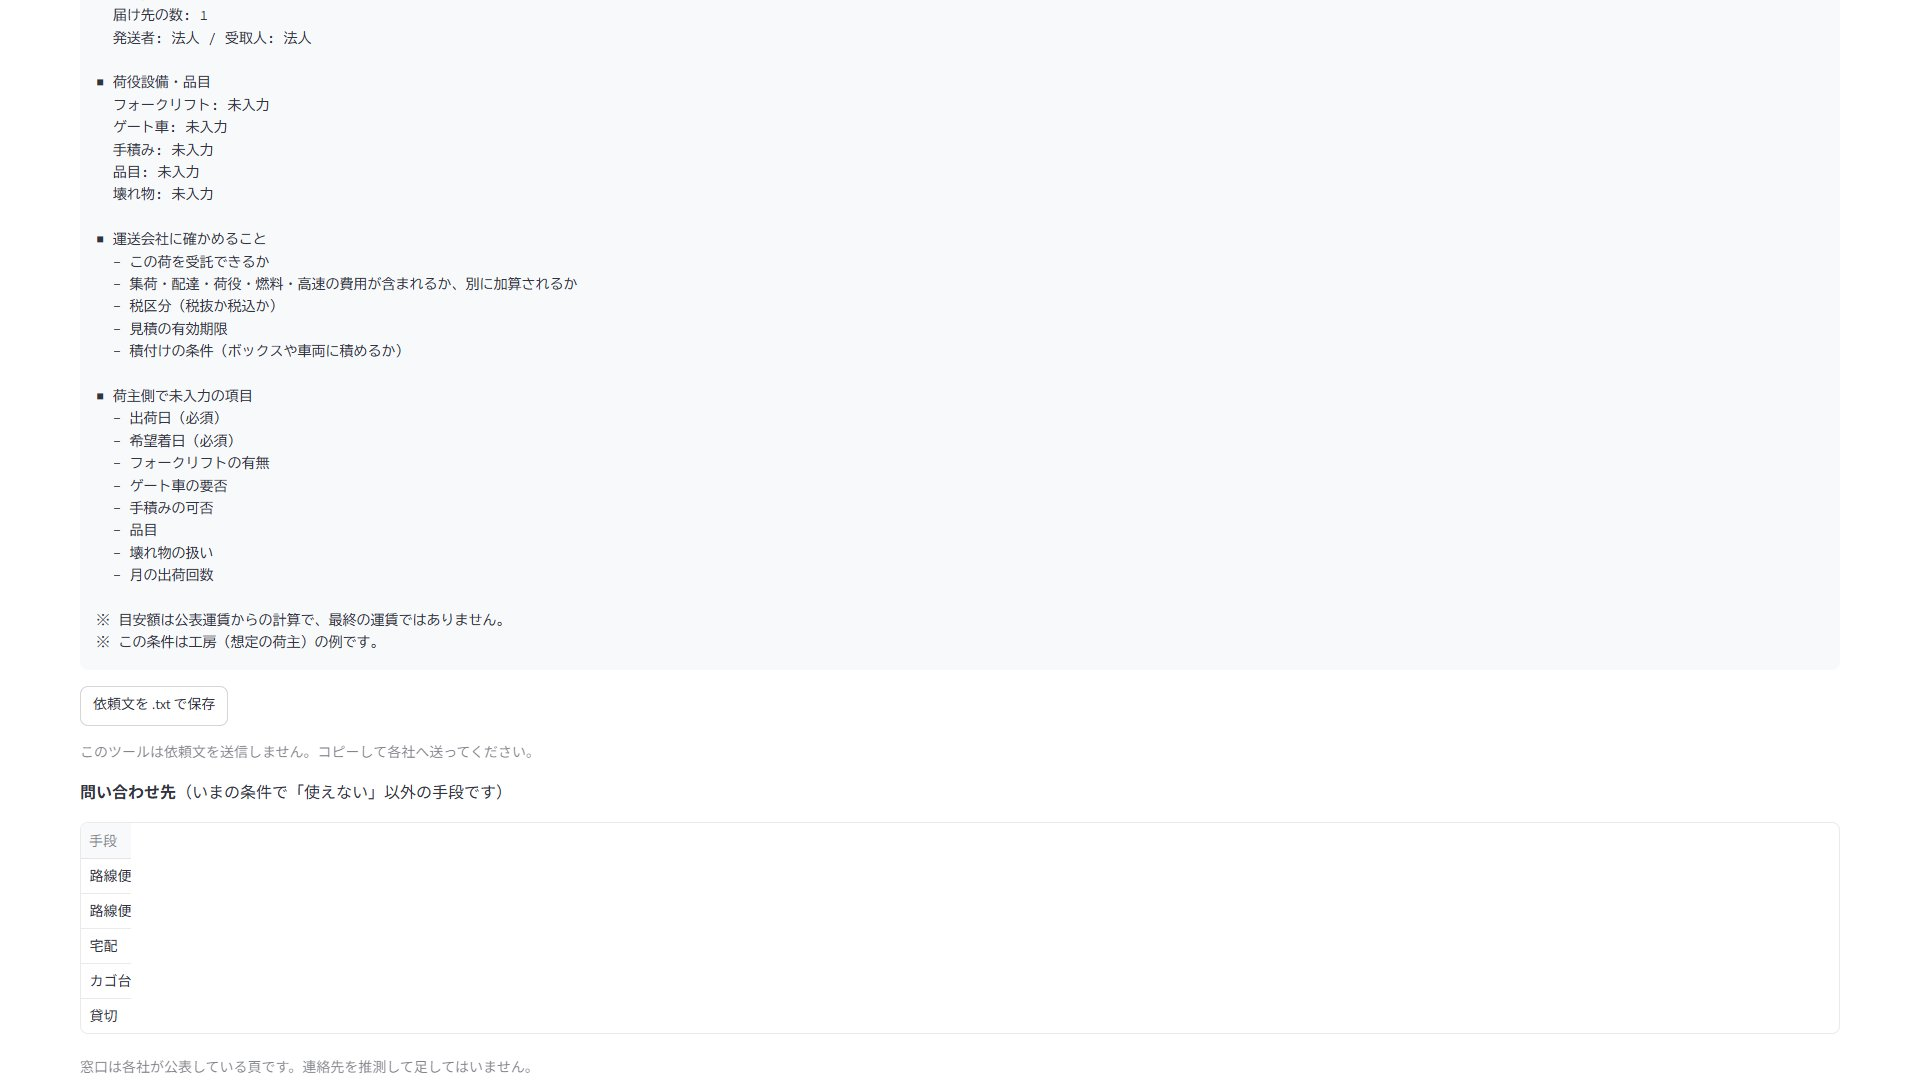
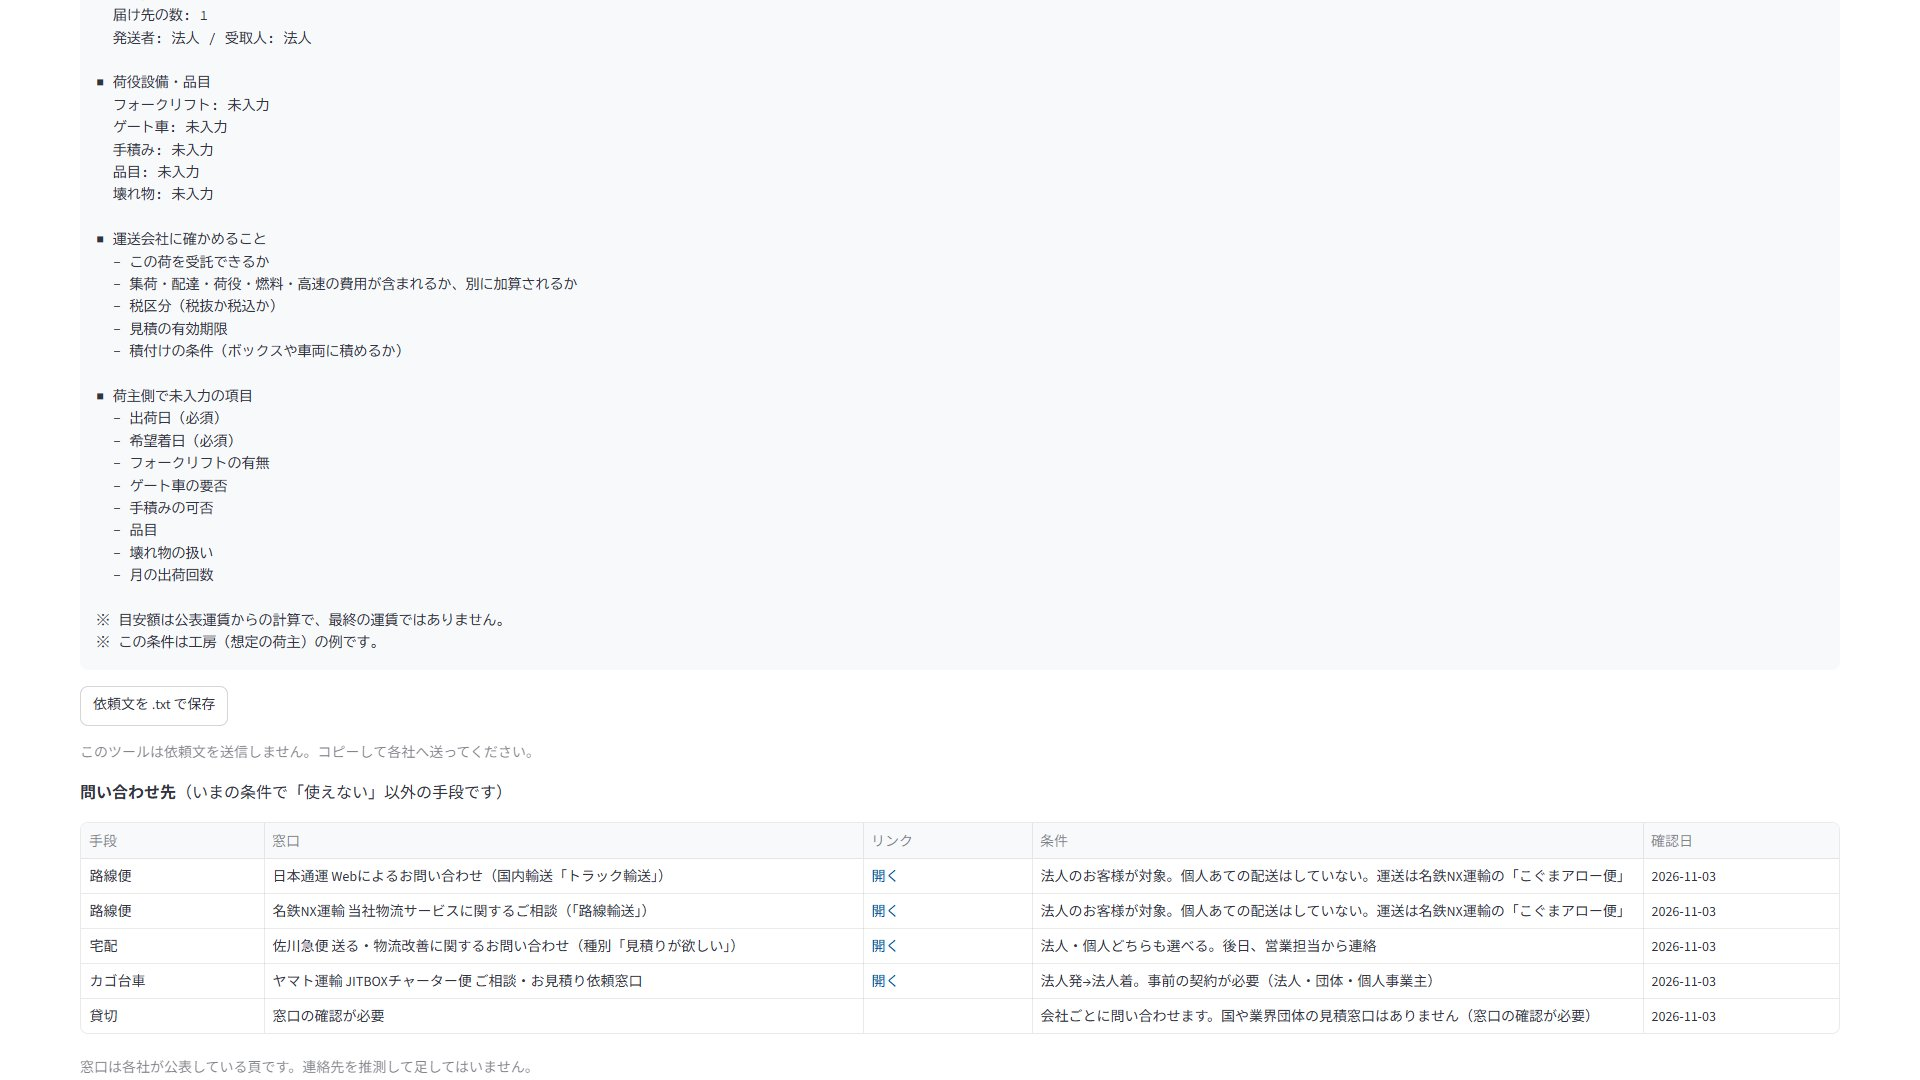
Reach validator 100/100 and close CP1-CP5
チェックポイント CP3〜CP5 を記録し、最終の照合表、DEVLOG、CLAUDE_USAGE を更新。
問い合わせ先の写真を表の描画を待って撮り直し。validator 100/100、不合格 0。

Changed region(s): [[0.5312, 0.7639, 0.875, 0.9472], [0.125, 0.7944, 0.375, 0.9472], [0.4375, 0.7944, 0.4688, 0.9167]]

diff --git a/tools/capture_screens.py b/tools/capture_screens.py
@@ -295,7 +295,8 @@ class Page:
         spec = dict(kind="text", text=text)
         self.wait(lambda: self.exists(spec), 10, f"文字「{text}」")
         self.js(f"{self._find(spec)}.scrollIntoView({{block:'{block}'}})")
-        time.sleep(0.8)
+        # 表（canvas）はスクロールで画面に入ってから列を描くので、描き終わるまで待つ
+        time.sleep(3.0)
 
     def shot(self, name: str) -> Path:
         from PIL import Image

diff --git a/docs/reviews/latest.md b/docs/reviews/latest.md
@@ -1,23 +1,20 @@
-対象の指紋: e5f3640d4783031a795f397e26dee88d4e3fdf6b30258843488d04995c3a33f3
+対象の指紋: 80def9185855479f1da26017830fbd8f4763094b1642074fd7df44c00415ec06
 P0: 0
 P1: 0
 P2: 0
-対象のコミット: 7e37e6e
+対象のコミット: b92404d
 
-# 独立レビュー 4回目（反証）: 7e37e6e の表示の修正の確認
+# 独立レビュー 5回目（反証）: b92404d の表示の修正の確認
 
-2026-11-03。対象は `git diff cd93344 HEAD -- src app tests` で、変わったのは `app/main.py` の内訳グラフ（色、積む順、棒の高さ）だけです。リポジトリのファイルはこの報告以外に変えていません。
+2026-11-03。対象は `git diff 7e37e6e HEAD -- src app tests` で、変わったのは `app/main.py` の3行（問い合わせ先の表で貸切のリンクを None から空文字にしたこと、目安額の表の列幅）だけです。リポジトリのファイルはこの報告以外に変えていません。
 
-判定: pass。新しい指摘はありません。確信度: 高（試験と一時スクリプトの結果による）。
+判定: pass。新しい指摘はありません。確信度: 高（データの値まで。リンク列が画面でどう描かれるかは見ていません）。
 
 | 確かめたこと | 結果 | 根拠 |
 |---|---|---|
-| 不明を 0円の棒にしない | 不明の項目は行が作られない。0円以下の行は 0 件 | 一時スクリプトで、不明を含む回答 A・完全な回答 B・税込の回答 C から作った表を確認（`zero rows: 0`） |
-| 完全な回答だけをグラフにする | 不完全な A は表に入らない（`A in chart: False`） | 同上 |
-| 税込の回答の内訳の合計 | C の行の合計 28,000円が回答の合計（税抜）28,000円と一致 | 同上 |
-| 色の範囲 | domain は 7 項目（集荷〜その他）、range も 7 色で、赤系の色は無い | グラフの定義（`to_dict()`）の `encoding.color.scale` |
-| 積む順 | `order` は列「順」（表の列の順 0〜6） | 同上 |
-| ほかの動作 | 差分はグラフの関数と高さの指定だけで、データの作り方（`line_amounts_ex_tax` と完全な回答で絞ること）は変わっていない。回答が0件のときも列はそろう | 差分を読んで確認、一時スクリプト |
-| 試験全体 | 185 件合格、失敗 0 | `uv run pytest -q`（16.90 秒） |
+| 表示以外の動作 | 差分は表に渡す値（`c.url or ""`）と列幅の指定だけで、判定・計算・保存の処理は変わっていない | 差分を読んで確認 |
+| 貸切の窓口 | 窓口の列は「窓口の確認が必要」、リンクの列は空欄 | 一時スクリプト（AppTest、S1 を確定）で問い合わせ先の表の値を確認 |
+| ほかの手段のリンク | 路線便2件・宅配・カゴ台車の URL は SPEC §13.7 と同じ | 同上 |
+| 試験全体 | 185 件合格、失敗 0 | `uv run pytest -q`（16.57 秒） |
 
-グラフの見た目（色の見分けやすさ、高さ）は画面で見ていません。スクリーンショットでの確認は別に必要です。
+空文字のリンクのセルに「開く」が出るかどうかは、AppTest では分かりません。ブラウザのスクリーンショットでの確認が別に必要です。

diff --git a/docs/DEVLOG.md b/docs/DEVLOG.md
@@ -32,6 +32,11 @@
 - 画面確認2で直したこと: 判断のタブの「選ぶ回答」が未選択のとき英語の既定文言（Choose an option）が出ていたため、「選ばない」と表示するようにした。ファイル欄の英語（Drag and drop a file here、Upload）は Streamlit に変える引数がなく、残っている。録画で映すかは動画の構成で決める。
 - 画面確認2の補足: 保存した JSON の saved_at は、ボタンを押した時刻ではなく画面を描いた時刻になる（保存内容は押した時点のものと同じ）。動作に影響しないため直していない。
 - 計画と実装の照合（本線）: 計画 08・作成者の構想の tool A・SPEC と照合し docs/plan/2026-11-03_計画と実装の照合.md に記録。未対応は、依頼文の問い合わせ先、発注確定と混同しない表示、見積の内訳表示、書き出しの出典表示、録画用の見積データ、費用二重計上の試験、作成者の構想の日数と月の回数。2日目は録画用データと内訳表示から足す。
+- 11/3 作成者の指示「日数で分けずに最後まで作る」「100点になるよう validator を入れて確認しながら進める」を受け、チェックポイント CP1〜CP6（docs/plan/2026-11-03_チェックポイント.md）と validator（tools/validate.py、採点表 tools/requirements.json）を入れた。点は機械で確かめられる証拠だけで付け、AI の印象では付けない。
+- 版2の実装（SPEC §13）: 状態名「公開条件に合う」、S5 と架空の見積回答、見積の内訳表とグラフ、発注の注意、書き出しの出典、月の出荷回数、問い合わせ先、公表のお届け日数、ほかの輸送手段の早見表、路線便の利用者の規則（受取人が個人なら使えない）。出典は researcher（Opus）が一次資料で照合（docs/plan/2026-11-03_日数と問い合わせ先の出典.md）。
+- 独立レビュー（reviewer、Opus）を5回: P1 1・P2 3 → P2 2 → 0 → 0 → 結果は docs/reviews/。主な指摘は、場面の情報が確定した版でなく選択欄に付いていた件（P1、確定した版に記録するよう直した）。
+- 画面の証拠: 内蔵ブラウザーの写真は幅 800px に縮むため、PC にある Edge をヘッドレスで動かす tools/capture_screens.py を作り、1920×1080 で撮った。本線が全部の画像を開いて確かめ、内訳グラフの赤（表で不明に使う色）、細い棒、貸切のリンク欄の None を見つけて直した。ヘッドレスではタブの下線が選んだタブとずれることがある（内容には影響しない）。日数の欄は文が長く途中で切れる（全文は表の下の注記）。
+- 証拠の画像: 2026-11-03_S1_estimates.jpg、2026-11-03_S2_estimates_chart.jpg、2026-11-03_S5_quotes_demo_partial.jpg、2026-11-03_S5_quotes_ranked_breakdown.jpg、2026-11-03_S5_quotes_history.jpg、2026-11-03_S5_judgment_notice.jpg、2026-11-03_S5_restored.jpg、2026-11-03_request_contacts.jpg（すべて docs/assets/）。
 
 ## コミット（自動記録）
 

diff --git a/docs/plan/2026-11-03_チェックポイント.md b/docs/plan/2026-11-03_チェックポイント.md
@@ -23,9 +23,9 @@
 |---|---|---|---|
 | CP1 | 済 | 11/3 | SPEC §13.1〜13.11（ea4e2b8）。照合表の × と △ をすべて §13 か §12 の「外す理由」に割り当てた |
 | CP2 | 済 | 11/3 | pytest 175件合格、S1〜S4 の期待値は不変（75b5d03）。validator の B 群（計画の要件）64/64 |
-| CP3 | 未 | | |
-| CP4 | 未 | | |
-| CP5 | 未 | | |
+| CP3 | 済 | 11/3 | reviewer（Opus）5回。P1 1・P2 3 → P2 2 → 0 → 0 → 0（docs/reviews/）。最新は b92404d に対して P0・P1・P2 とも 0 |
+| CP4 | 済 | 11/3 | tools/capture_screens.py で計画 08 §5 の筋書き（S5）と S1・S2・依頼文を 1920×1080 で撮り、本線が8枚を開いて確認。表示の不具合3件（グラフの赤、細い棒、リンク欄の None）を直した |
+| CP5 | 済 | 11/3 | 照合表の最終の照合で全項目が ○ か「外（理由つき）」。README・CLAUDE_USAGE を更新。validator の最終の点は下の表 |
 | CP6 | 未（作成者の確認が要る） | | |
 
 ## validator の点数の推移
@@ -37,6 +37,9 @@ validator は `uv run python tools/validate.py`。履歴は `docs/validation/his
 | 1 | 67 | 8 | §13.7〜13.9 未実装、画面の証拠が幅 800px、レビュー未実施、README の見出し、CP の記録、X01 の検索文字列の誤り（採点表の誤字） |
 | 2 | 67 | 7 | X01 を直した。ほかは同じ |
 | 3 | 78 | 4 | §13.7〜13.9 を実装し、計画の要件は全項目合格。残りは画面の写真、レビュー、README、CP の記録 |
+| 4 | 79 | 4 | README を直した。1回目のレビューのファイルに PC 固有のパスがあり E5 で落ちた（validator が見つけた） |
+| 5 | 81 | 3 | レビューの指摘を直し、パスの無いファイルに置き換えた。残りは画面の写真、レビューの指紋、CP の記録 |
+| 6 | 100 | 0 | 1920×1080 の画面8枚、5回目のレビュー（P0・P1・P2 とも 0）、CP1〜CP5 の記録がそろった。100点はこの採点表の条件をすべて満たしたという意味で、審査の点数の予測ではない |
 
 ## 経緯
 

diff --git a/docs/CLAUDE_USAGE.md b/docs/CLAUDE_USAGE.md
@@ -33,6 +33,7 @@
 | 名前 | 何をするか | 選んだ理由 |
 |---|---|---|
 | `tools/validate.py` と `tools/requirements.json` | もともとの計画（08・作成者の構想・SPEC）の要件ごとに、試験の合否・画面の証拠・独立レビューの結果・公開の安全を機械で調べ、100点満点で採点する | 「計画どおりか」を毎回同じ基準で確かめるため。点は証拠だけで付け、AI の印象では付けない（計画 10） |
+| `tools/capture_screens.py` | PC にある Edge をヘッドレスで動かし、実際の画面を 1920×1080 で撮る（8場面） | 内蔵ブラウザーの写真は幅 800px に縮むため。録画にも同じ手順を使える |
 
 ## フック
 
@@ -49,3 +50,6 @@
 | 11/3 | 版2の実装（SPEC §13.1〜13.6・13.10） | pytest | | coder | | | |
 | 11/3 | お届け日数・問い合わせ先・早見表の出典 | | | | researcher | | 一次資料での照合が要るため |
 | 11/3 | validator 本体 | | | coder | | | |
+| 11/3 | 版2の独立レビュー（5回） | pytest | | | reviewer | | 公開リポジトリと利用者の判断に関わる表示のため |
+| 11/3 | 1080p の画面撮影の道具 | | | coder | | | |
+| 11/3 | 画像の目視確認 | | | | 本線 | | 試験とレビューで見つからない表示の問題を見つけるため |
